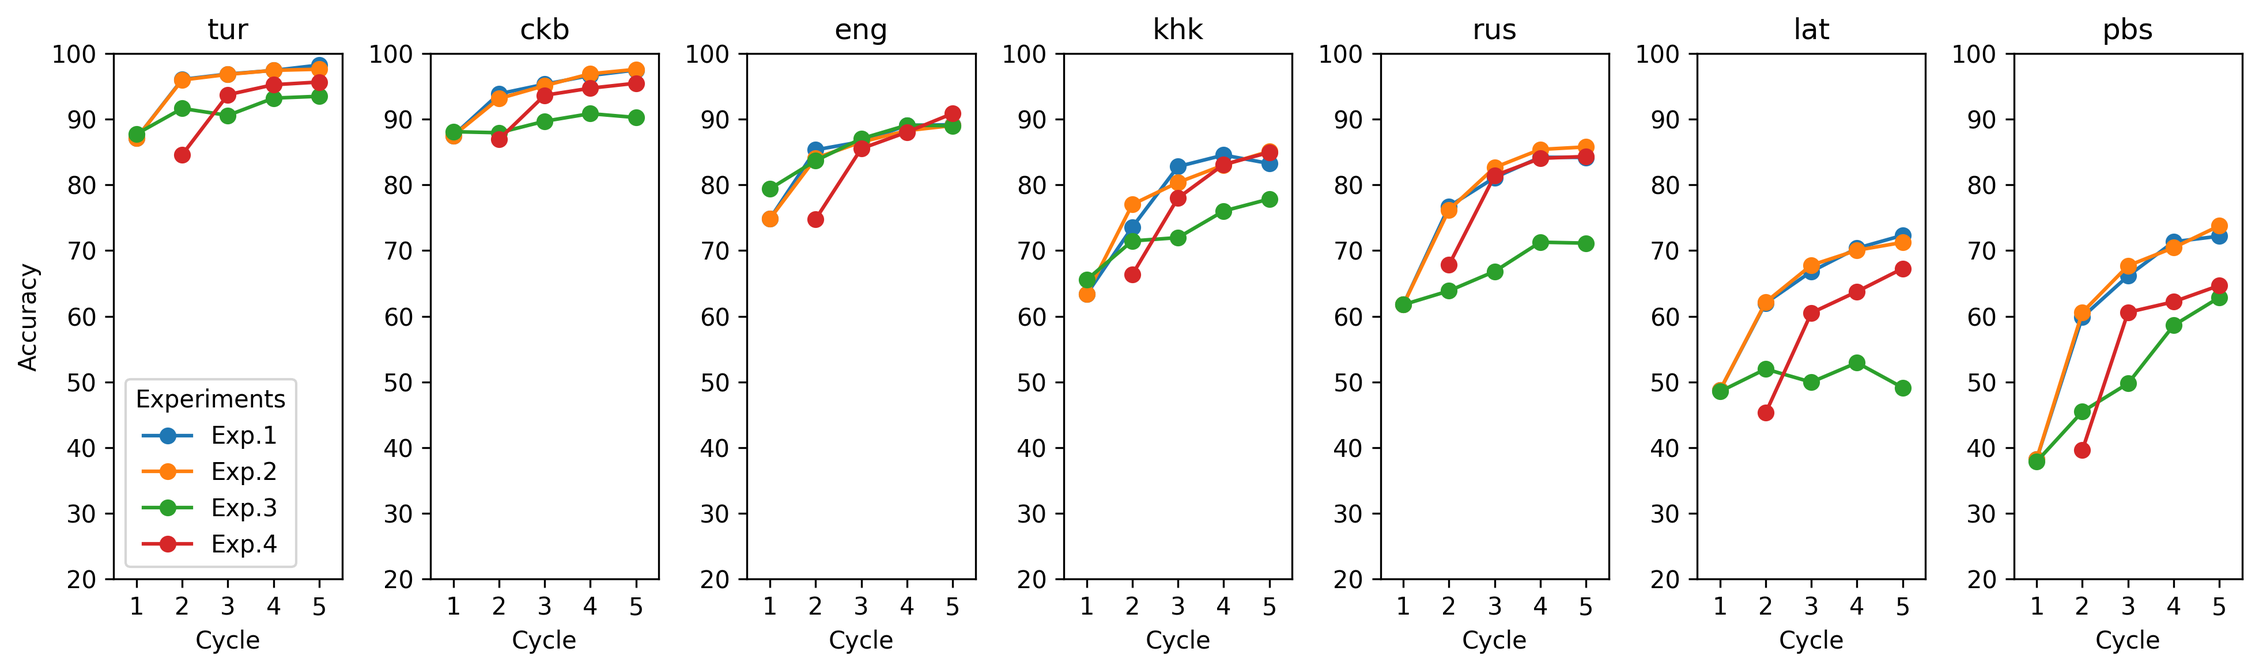
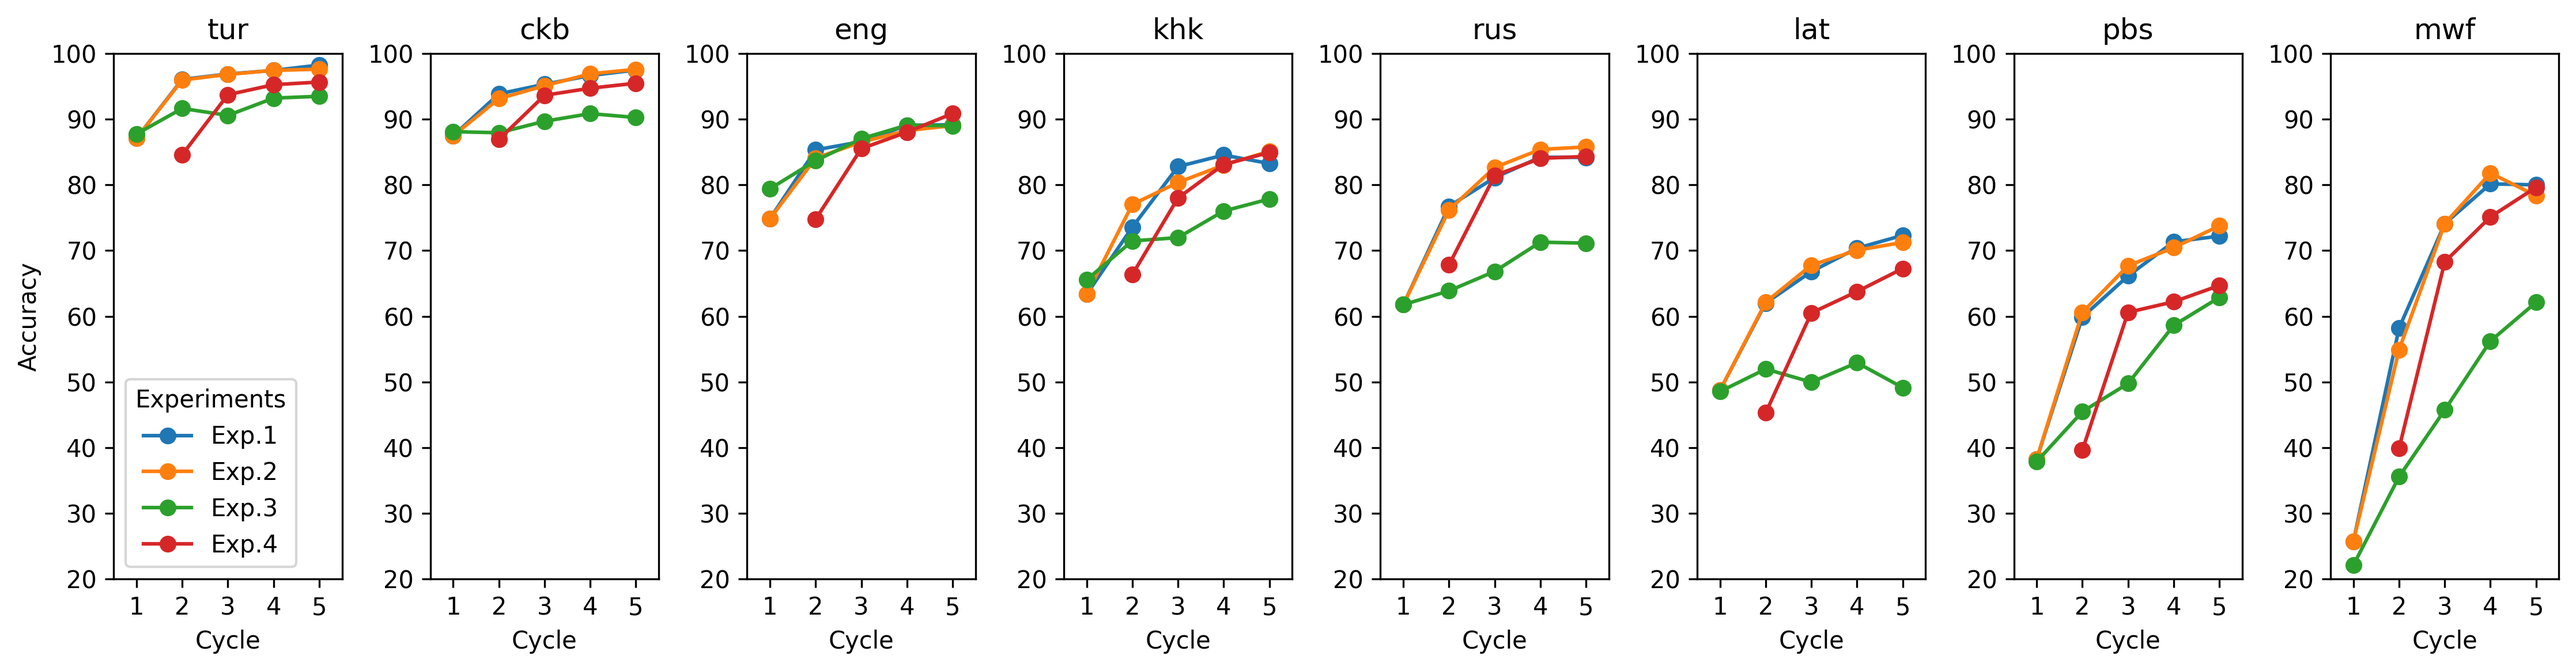
reports updated

diff --git a/tables/generate_tables.py b/tables/generate_tables.py
@@ -4,6 +4,7 @@ unique_tags = set()
 
 def load_oracle_knowledge(data_file):
   global oracle_knowledge
+  oracle_knowledge = {}
   with open(data_file, 'r', encoding='utf-8') as f:
     for line in f:
       lemma, form, tags = line.strip().split('\t')
@@ -73,19 +74,26 @@ def main(lang, data_path, working_path, table_path):
           count_all_forms = len(oracle_knowledge.items())
           NES = (1 - (P_W + S_N + S_W) / count_all_forms) * 100
           if cycle == 5:
-            with open(f'{table_path}/report_final_acc_NES.txt', 'a', encoding='utf-8') as final_report:
-              final_report.write(f'{lang}\tExp.{exp}\t{acc :.2f}\t{NES :.2f}\n')
+            with open(f'{table_path}/report_final_acc.txt', 'a', encoding='utf-8') as acc_report:
+              if exp == 1:
+                acc_report.write(f'\n{lang}')
+              acc_report.write(f'\t{acc :.1f}')
+            with open(f'{table_path}/report_final_NES.txt', 'a', encoding='utf-8') as NES_report:
+              if exp == 1:
+                NES_report.write(f'\n{lang}')
+              NES_report.write(f'\t{NES :.1f}')
 
 
 table_path = 'tables'
-with open(f'{table_path}/report_final_acc_NES.txt', 'w', encoding='utf-8') as w:
-  w.write(f'lang\tExp\tAcc\tNES\n')
+with open(f'{table_path}/report_final_acc.txt', 'w', encoding='utf-8') as w:
+  w.write(f'lang\tExp1\tExp2\tExp3\tExp4')
+with open(f'{table_path}/report_final_NES.txt', 'w', encoding='utf-8') as w:
+  w.write(f'lang\tExp1\tExp2\tExp3\tExp4')
 with open(f'{table_path}/report_oracle_stat.txt', 'w', encoding='utf-8') as w:
   w.write(f'lang\tExp\tAll\tN\tW\tC\n')
 with open(f'{table_path}/report_acc_cycles.txt', 'w', encoding='utf-8') as w:
   w.write(f'lang\tExp\tcycle\tAcc\n')
   
   
-langs = ['tur', 'ckb', 'eng', 'khk', 'rus', 'lat',  'pbs', 'mwf']
-for lang in ['tur', 'ckb', 'eng', 'khk', 'rus', 'lat', 'pbs']:
+for lang in ['tur', 'ckb', 'eng', 'khk', 'rus', 'lat','pbs', 'mwf']: 
   main(lang, data_path='data', working_path='results', table_path=table_path)
